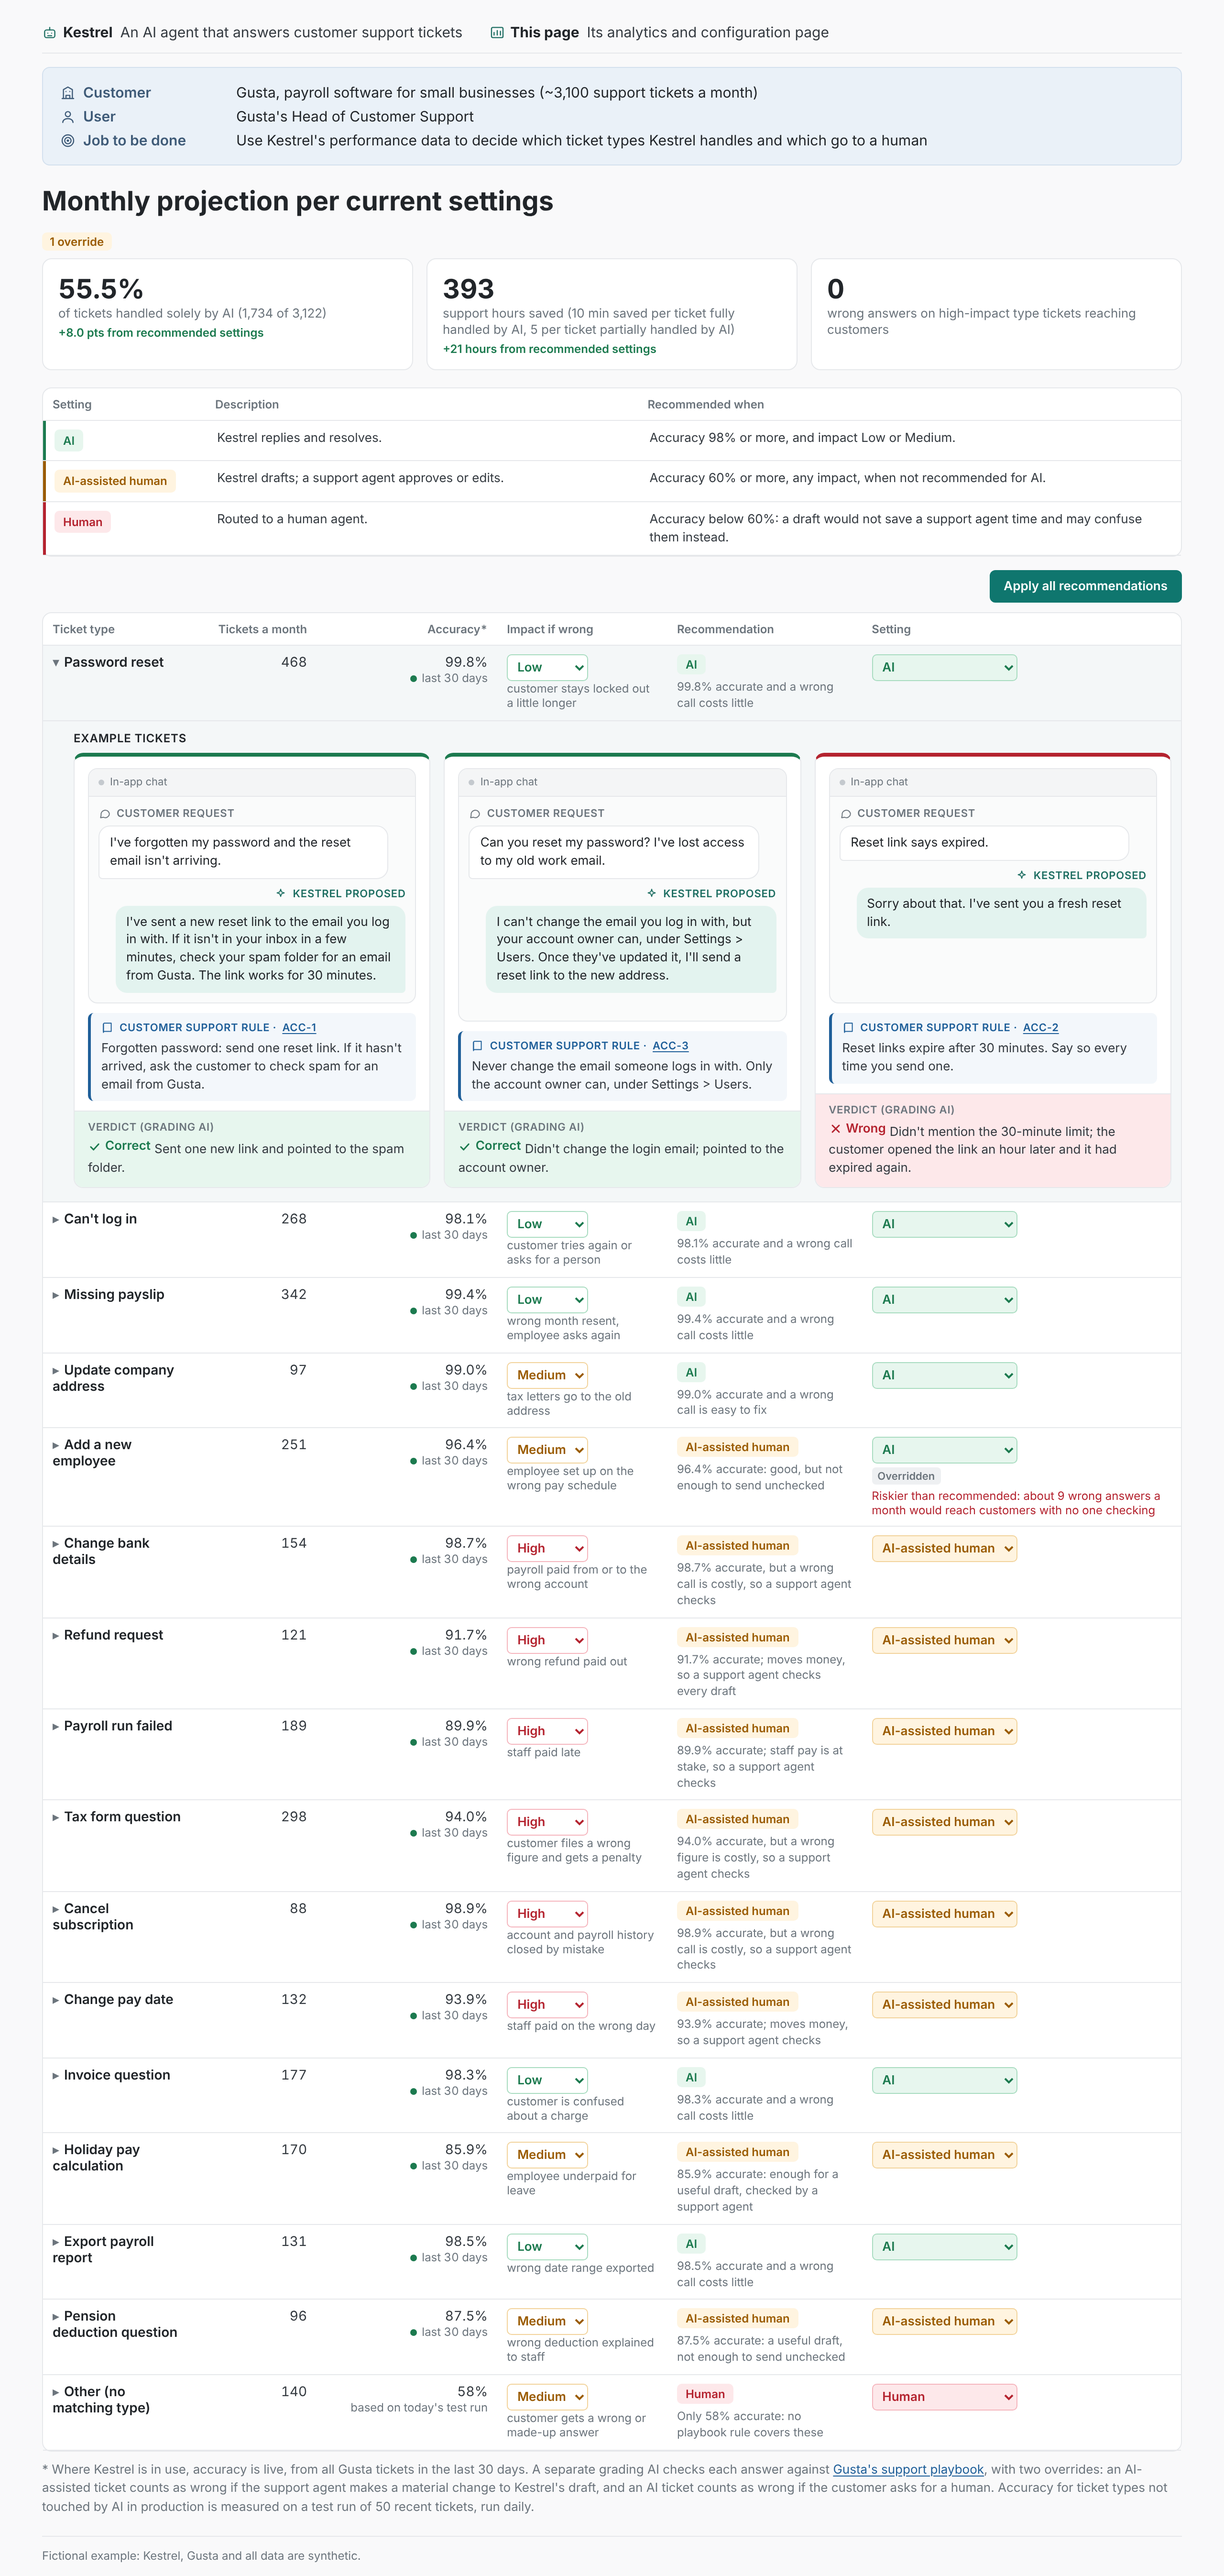
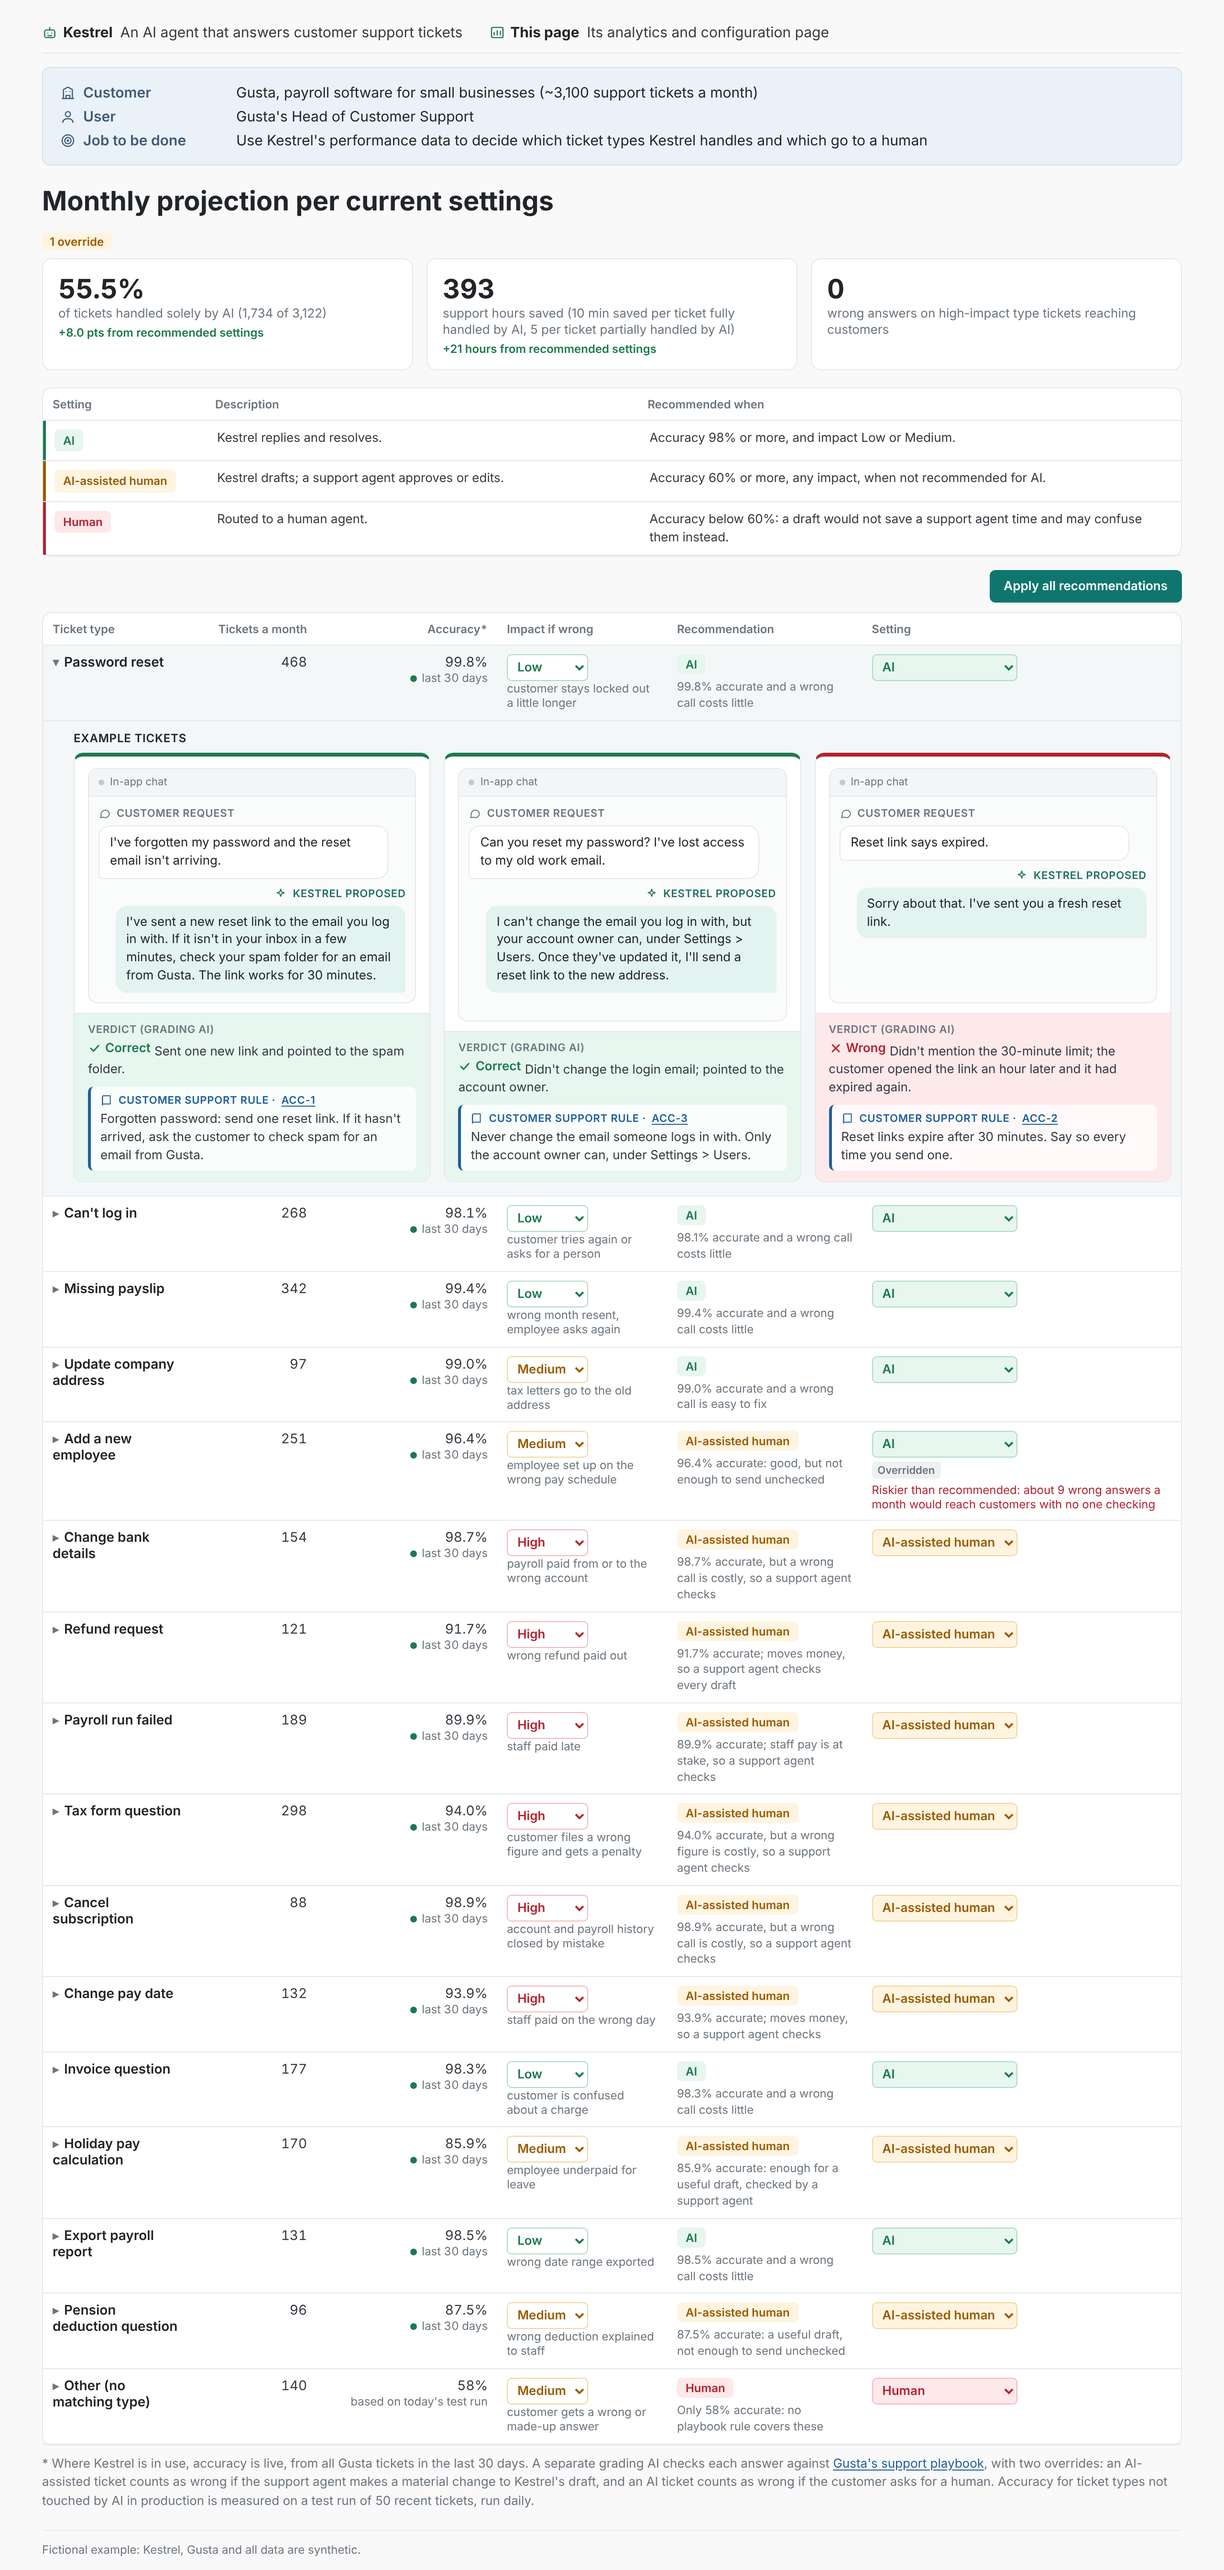
Example tickets: the customer support rule sits inside the verdict box
Claude-Session: https://claude.ai/code/session_016JoguXTxkWcj5knaYbAtMZ

diff --git a/examples/kestrel/build/mvp.html b/examples/kestrel/build/mvp.html
@@ -75,7 +75,7 @@ tr.detail td{background:var(--open);padding:2px 10px 14px 32px}
 .bubble{padding:8px 11px;border-radius:12px;color:var(--head)}
 .msg-in .bubble{background:#fff;border:1px solid var(--line);border-bottom-left-radius:4px;margin-right:18px}
 .msg-out .who{justify-content:flex-end;color:#1f6f63}.msg-out .bubble{background:#e3f3ef;border-bottom-right-radius:4px;margin-left:18px}
-.rulebox{background:#f3f7fb;border-left:3px solid #1f5f99;border-radius:6px;padding:8px 11px}
+.rulebox{background:rgba(255,255,255,.75);border-left:3px solid #1f5f99;border-radius:6px;padding:7px 10px;margin-top:8px}
 .rulebox .who{color:#1f5f99}
 .verdict{padding:9px 14px 11px;border-top:1px solid var(--line)}
 .ex-ok .verdict{background:var(--ai-bg)}.ex-no .verdict{background:var(--hum-bg)}
@@ -194,8 +194,9 @@ function render(){
       <div class="chat"><div class="chathead"><span class="dot"></span>${D.channel}</div><div class="chatbody">
       <div class="msg-in"><span class="who">${ic('chat')}Customer request</span><div class="bubble">${e.message}</div></div>
       <div class="msg-out"><span class="who">${ic('spark')}${K} proposed</span><div class="bubble">${e.proposed}</div></div></div></div>
-      <div class="rulebox"><span class="who">${ic('book')}Customer support rule · <a class="rule-link" href="playbook.html#${e.rule_id}" target="_blank" rel="noopener" title="Open this rule in ${D.customer}'s support playbook">${e.rule_id}</a></span>${e.rule}</div></div>
-      <div class="verdict"><span class="who">Verdict (grading AI)</span><span class="pill ${e.correct ? 'ok' : 'no'}">${ic(e.correct ? 'check' : 'cross')}${e.correct ? 'Correct' : 'Wrong'}</span>${e.verdict_reason}</div></div>`).join('')}</div></td></tr>` : '';
+</div>
+      <div class="verdict"><span class="who">Verdict (grading AI)</span><span class="pill ${e.correct ? 'ok' : 'no'}">${ic(e.correct ? 'check' : 'cross')}${e.correct ? 'Correct' : 'Wrong'}</span>${e.verdict_reason}
+        <div class="rulebox"><span class="who">${ic('book')}Customer support rule · <a class="rule-link" href="playbook.html#${e.rule_id}" target="_blank" rel="noopener" title="Open this rule in ${D.customer}'s support playbook">${e.rule_id}</a></span>${e.rule}</div></div></div>`).join('')}</div></td></tr>` : '';
     return main + det; }).join('');
   document.getElementById('types').innerHTML = `<tr><th>Ticket type</th><th class="n">Tickets a month</th><th class="n" id="thAcc"><span id="thAccLabel">Accuracy*</span></th><th>Impact if wrong</th><th>Recommendation</th><th>Setting</th></tr>${rows}`;
 }

diff --git a/examples/kestrel/build/check_mvp.js b/examples/kestrel/build/check_mvp.js
@@ -36,7 +36,7 @@ const srv = http.createServer((q, r) => { const f = path.join(root, decodeURICom
   t('16 rows, Password reset expanded by default', (await p.$$('tr.row')).length === 16 && (await p.$$('tr.detail')).length === 1 && (await txt('tr.row.open')).includes('Password reset'));
   const det = await txt('tr.detail');
   t('each expanded row has an Example tickets heading', det.includes('Example tickets'));
-  t('the conversation sits in a chat window; the rule and verdict sit outside it', await p.$eval('tr.detail .exbox', b => !!b.querySelector('.chat .msg-in') && !!b.querySelector('.chat .msg-out') && !b.querySelector('.chat .rulebox') && !b.querySelector('.chat .verdict') && !!b.querySelector('.rulebox')));
+  t('the conversation sits in a chat window; the rule sits inside the verdict box, outside the chat', await p.$eval('tr.detail .exbox', b => !!b.querySelector('.chat .msg-in') && !!b.querySelector('.chat .msg-out') && !b.querySelector('.chat .rulebox') && !b.querySelector('.chat .verdict') && !!b.querySelector('.verdict .rulebox')));
   t('examples use the four labels', ['Customer request', 'Kestrel proposed', 'Customer support rule', 'Verdict (grading AI)'].every(l => det.includes(l)));
   await p.click('tr.row:has-text("Refund request") .name');
   t('clicking a row expands it, with a Wrong example', (await p.$$('tr.detail')).length === 2 && (await txt('#types')).includes('February was still due'));
